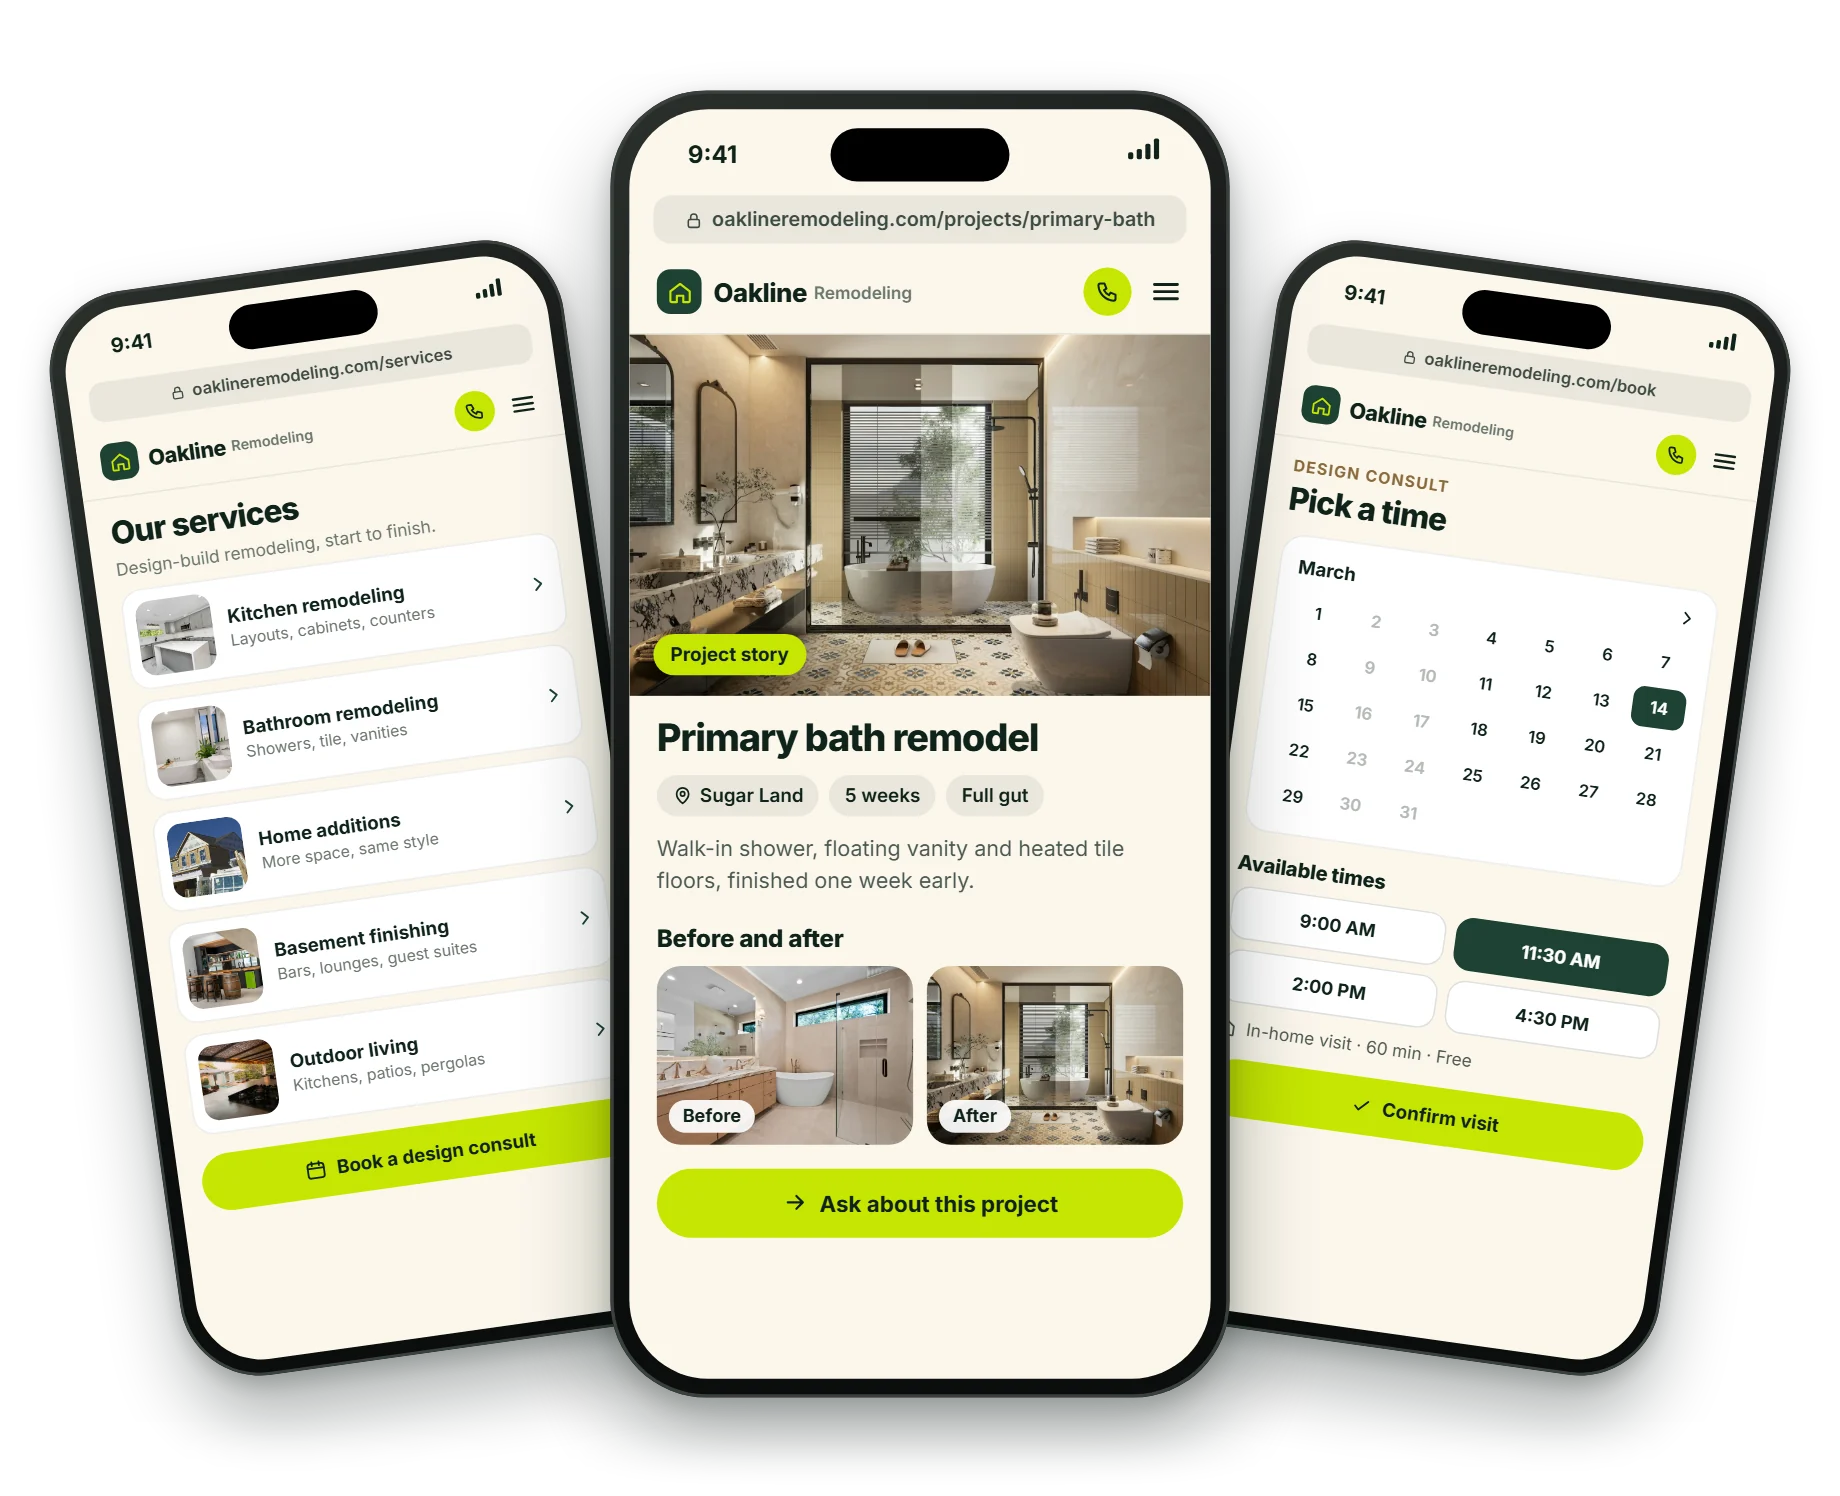
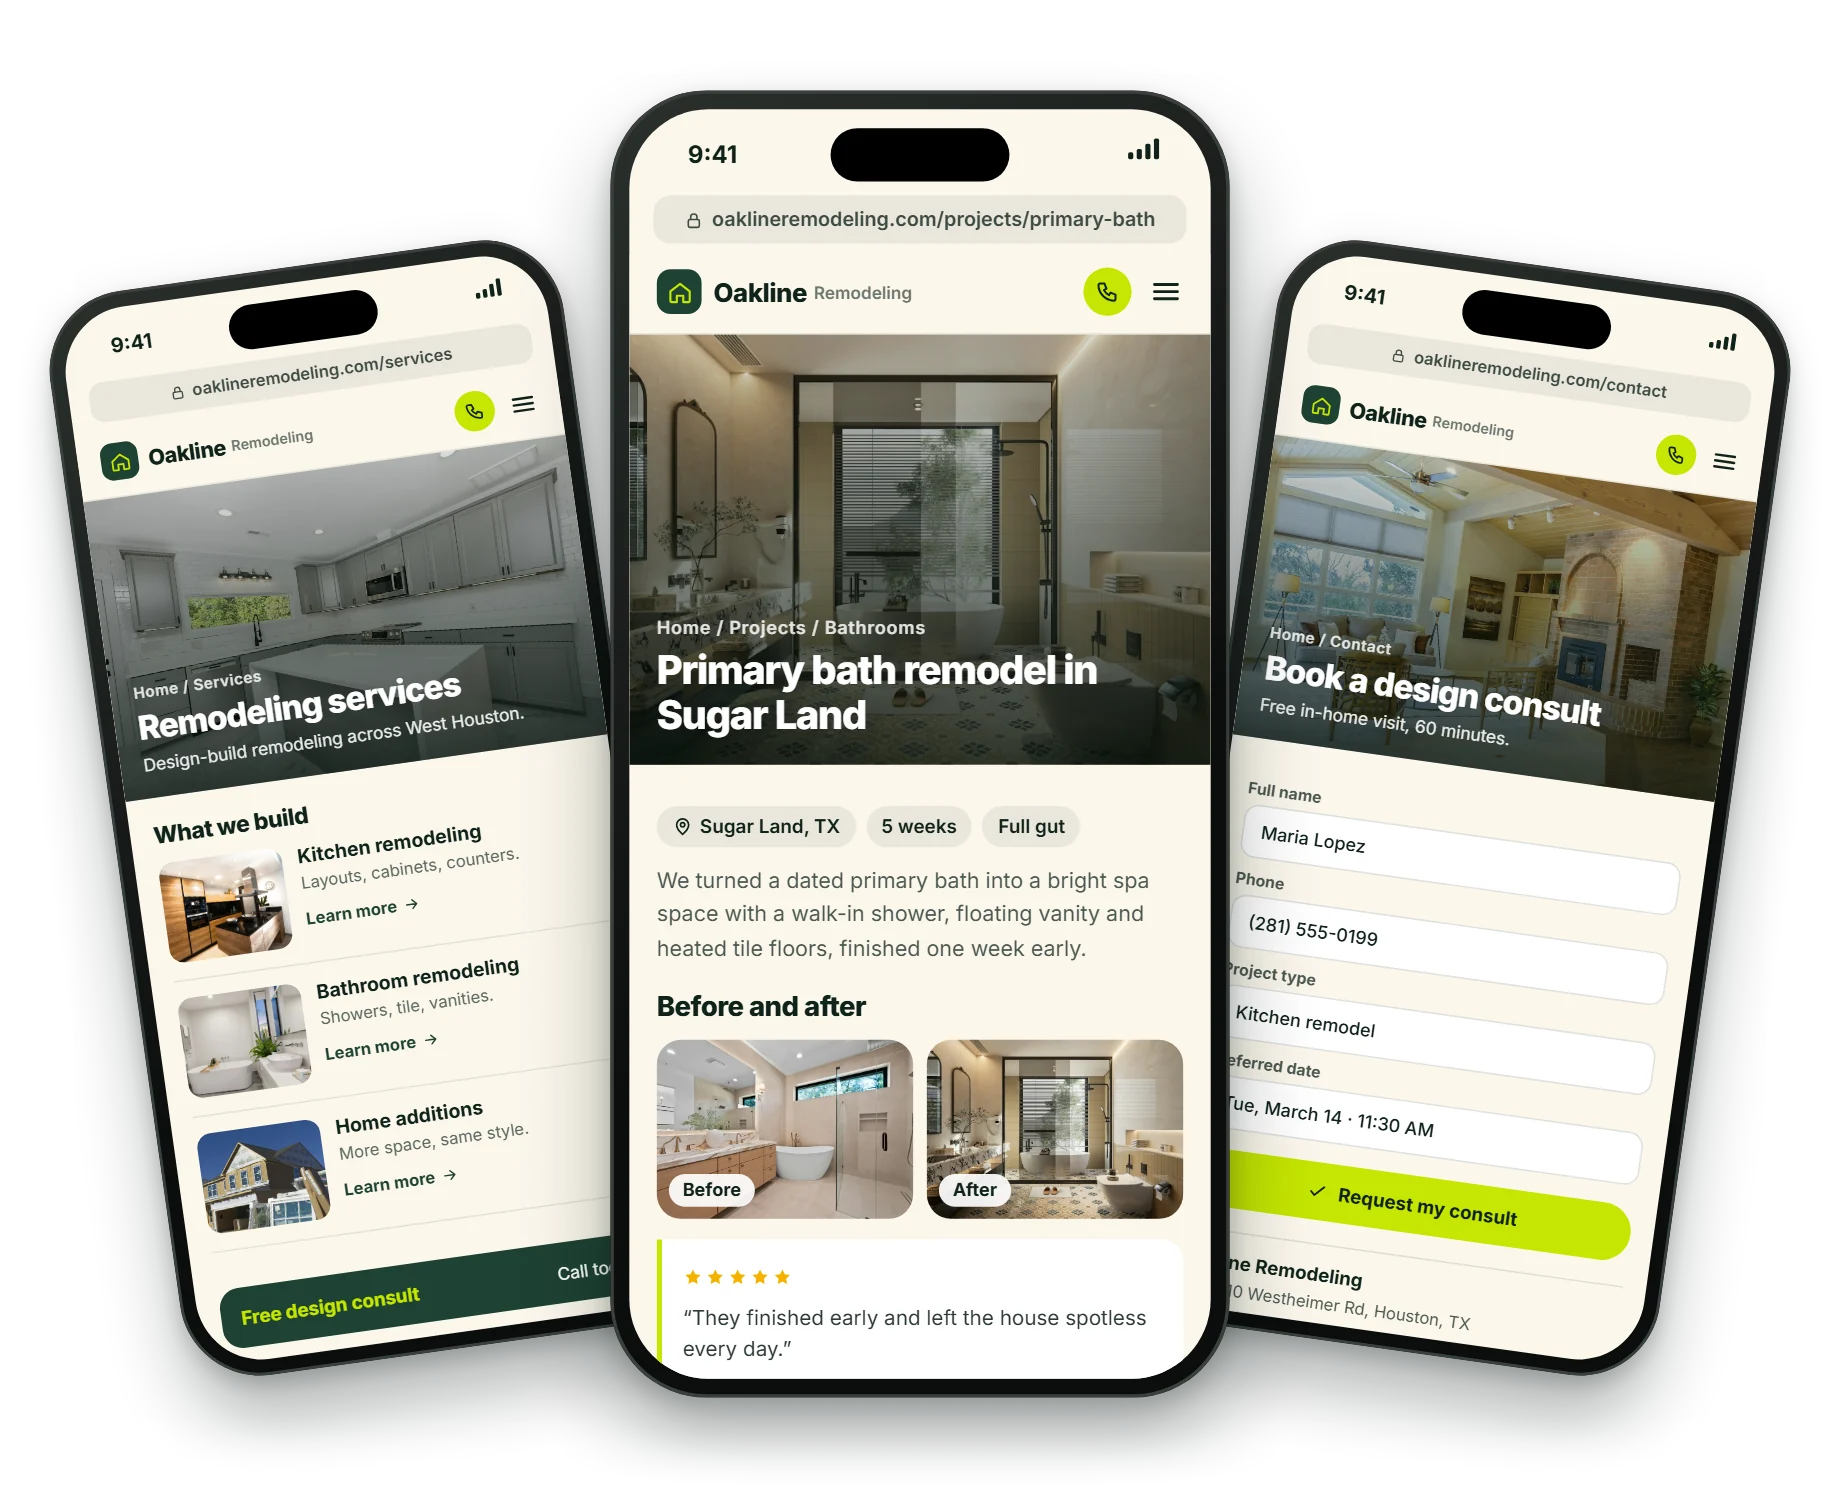
changes

diff --git a/remodelers.php b/remodelers.php
@@ -1715,7 +1715,7 @@ include __DIR__ . '/includes/testimonialslider.php';
 
 <section class="rx-team">
   <div class="rx-team-card">
-    <div class="rx-team-art" data-rx-tilt><img src="/assets/images/rmx-trio.webp" alt="Remodeling website services page, project story and consult booking page on phones" width="1840" height="1496" loading="lazy" decoding="async"></div>
+    <div class="rx-team-art" data-rx-tilt><img src="/assets/images/rmx-trio.webp" alt="Remodeling website services page, project page and contact page on phones" width="1840" height="1496" loading="lazy" decoding="async"></div>
     <div class="rx-team-copy">
       <p class="subheading">Why WTF Labs</p>
       <h2 class="rx-h2">Looking for a team that actually understands remodeling?</h2>
